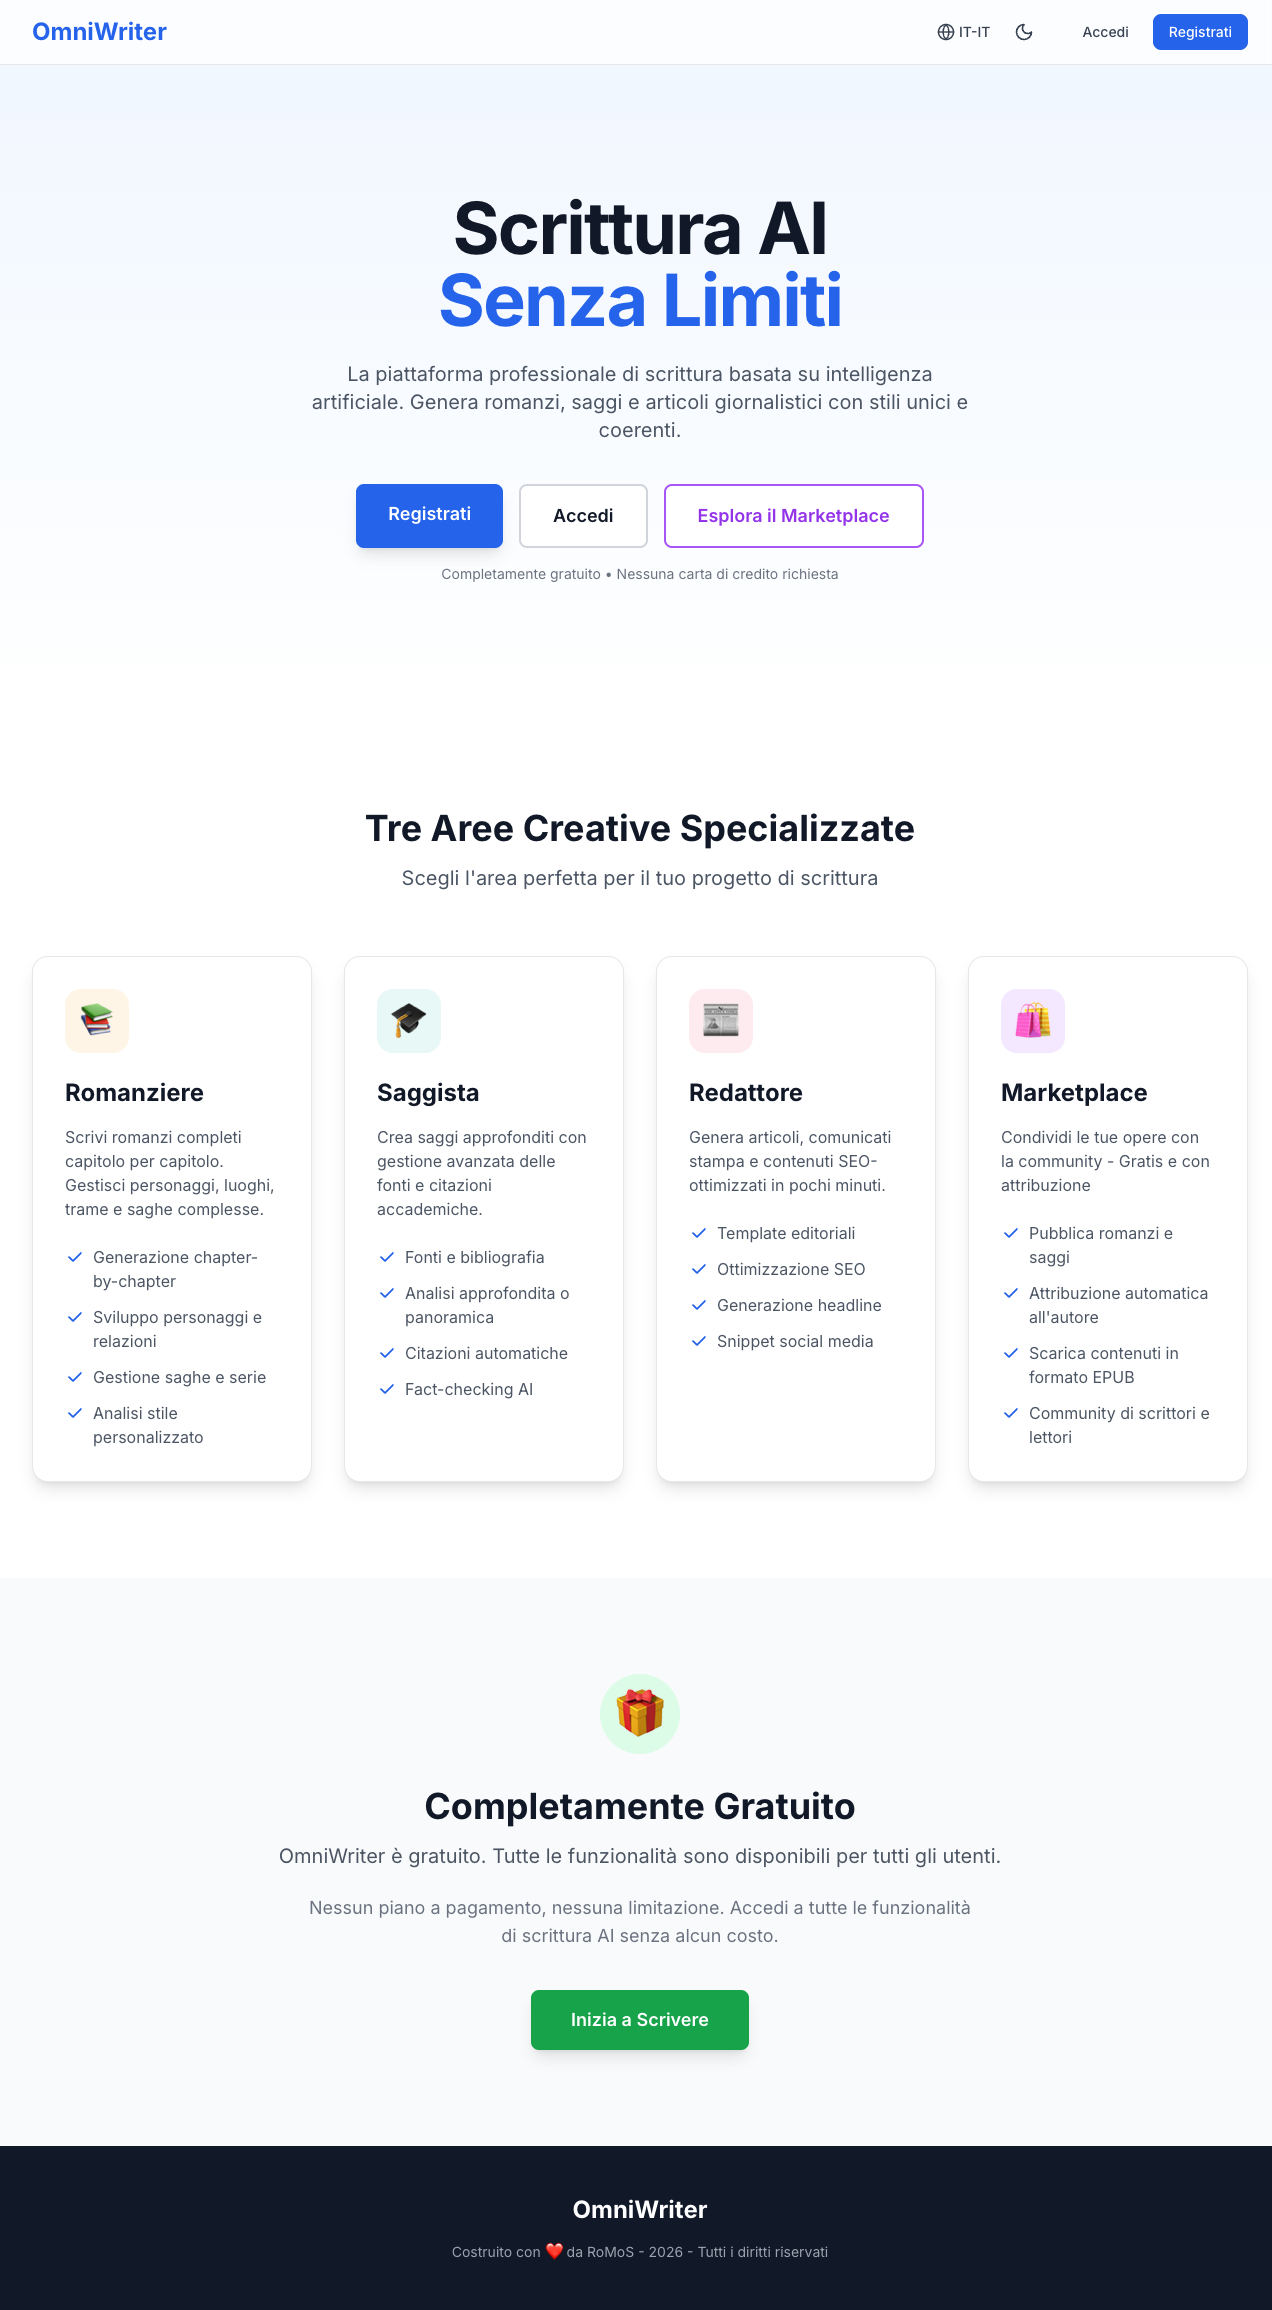
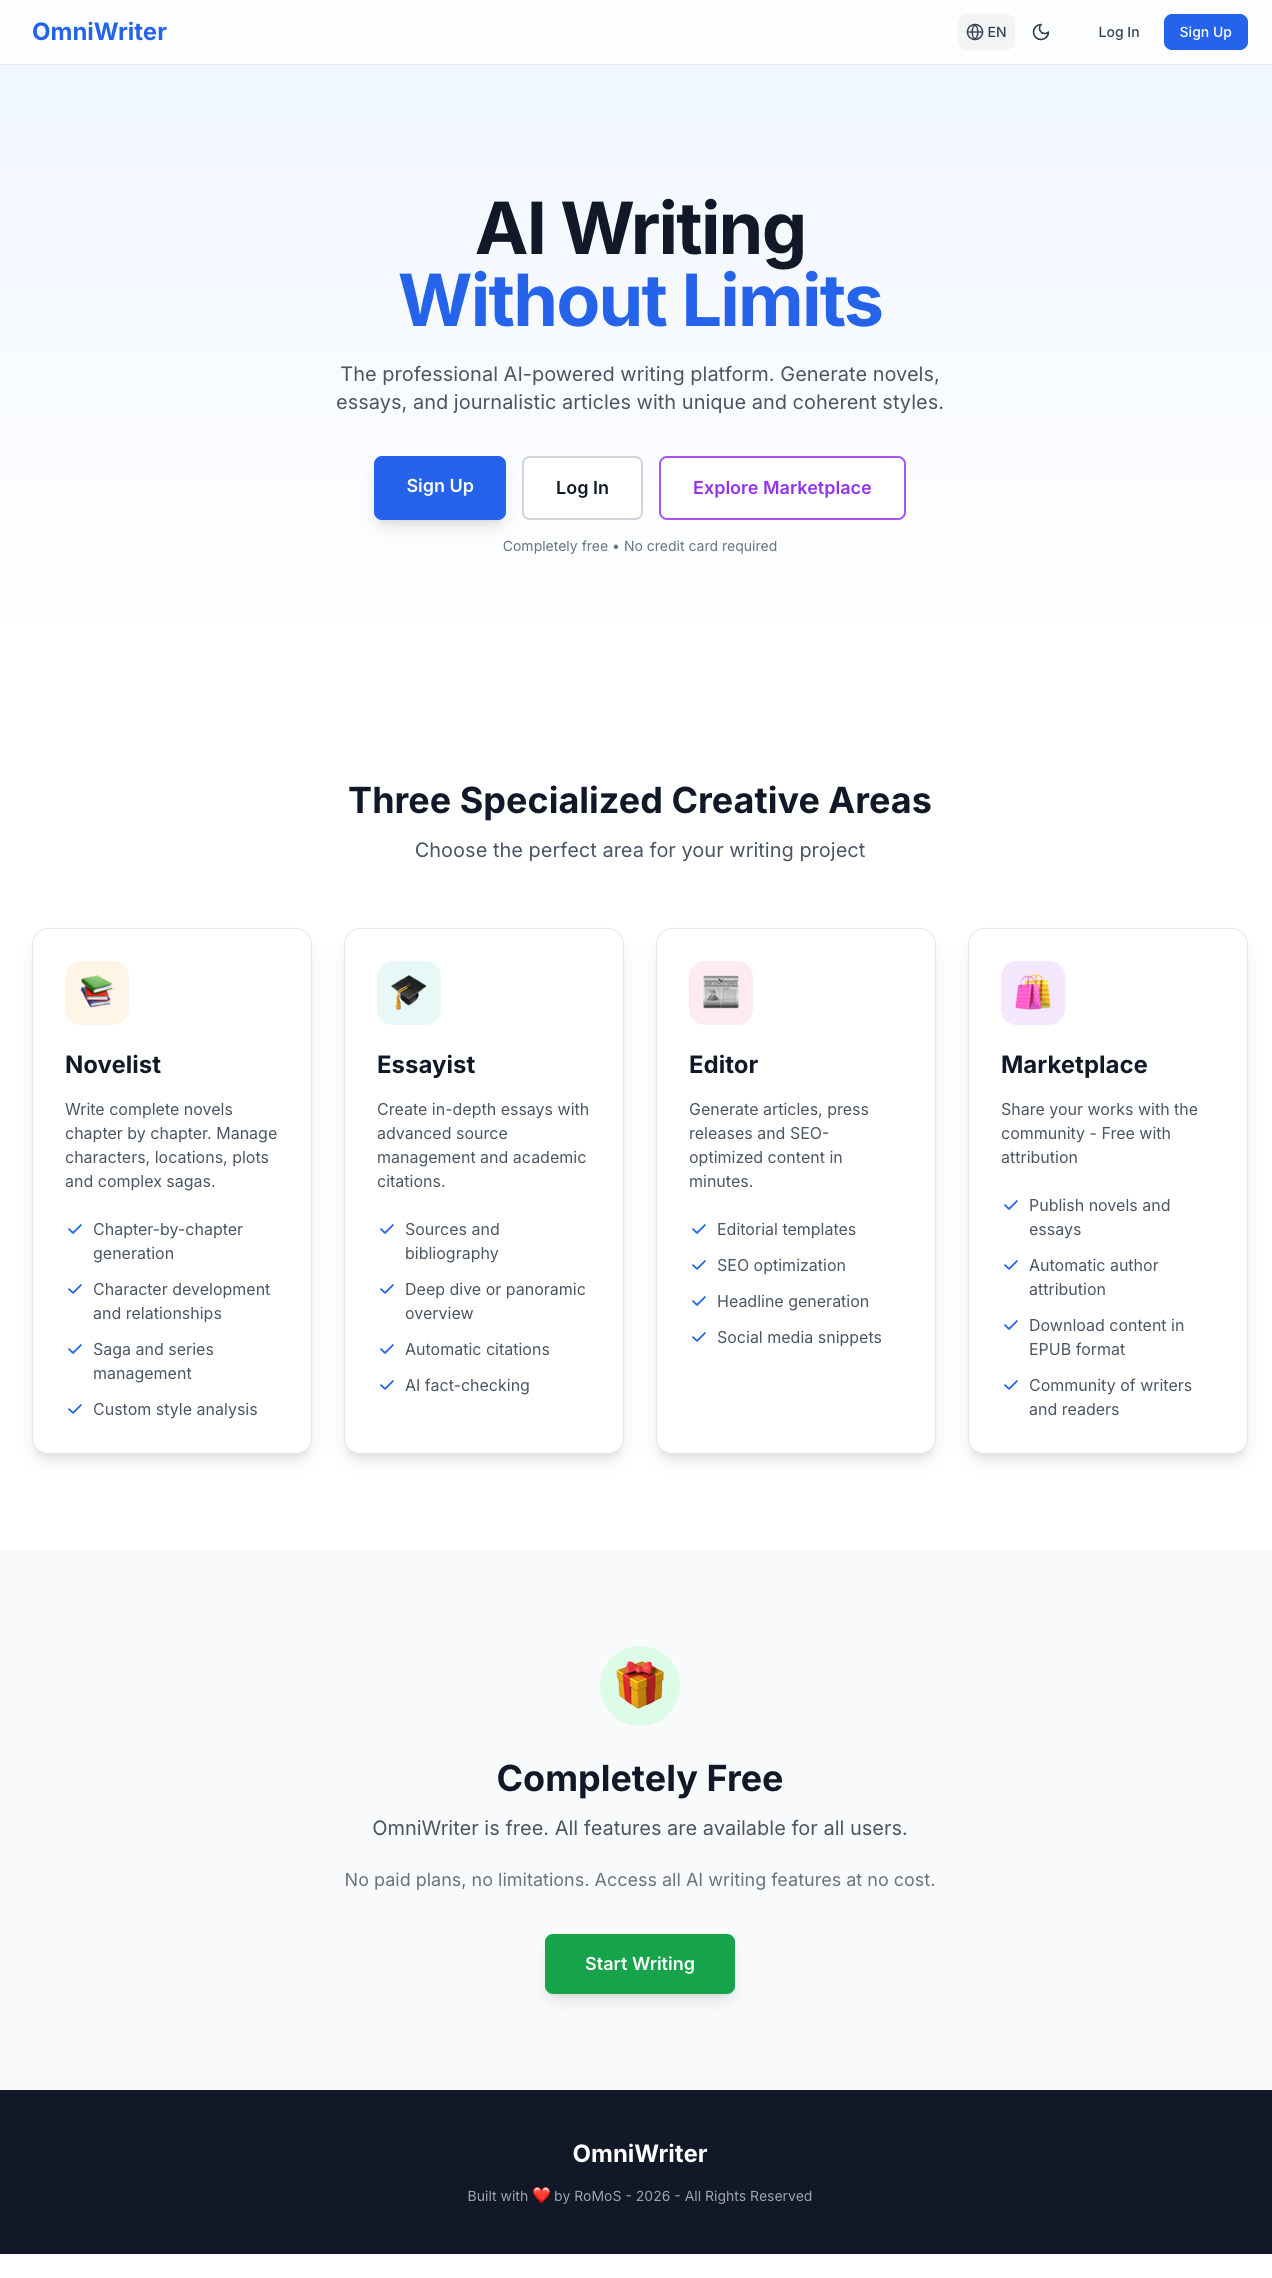
docs(#433): Fix README.md errors and update screenshot to English
- Replace landing page screenshot with English version

- Update Technology Stack: remove Vercel AI SDK and shadcn/ui

- Update AI Integration with actual providers: OpenAI, Anthropic, OpenRouter, Requesty, Gemini, Custom

- Add Drizzle ORM to Database layer

- Remove User Roles section (everything is now free)

- Marked feature #433 as passing

diff --git a/README.md b/README.md
@@ -69,10 +69,10 @@ OmniWriter is designed for:
 
 | Layer | Technologies |
 |-------|-------------|
-| **Frontend** | React 18, TypeScript, Tailwind CSS, shadcn/ui |
+| **Frontend** | React 18, TypeScript, Tailwind CSS |
 | **Backend** | Node.js, Express.js, TypeScript |
-| **Database** | SQLite (better-sqlite3) |
-| **AI Integration** | Vercel AI SDK, OpenAI, Anthropic |
+| **Database** | SQLite (better-sqlite3 + Drizzle ORM) |
+| **AI Integration** | OpenAI, Anthropic, OpenRouter, Requesty, Gemini, Custom |
 | **Authentication** | Passport.js (email/password + Google OAuth) |
 | **Internationalization** | i18next (Italian + English) |
 
@@ -234,15 +234,6 @@ omniwriter/
 ├── LICENSE.md              # AGPL v3 License
 └── README.md               # This file
 ```
-
-## User Roles
-
-| Role | Features |
-|------|----------|
-| **Free** | Basic access, limited generation length, TXT/DOCX export, basic Human Model |
-| **Premium** | Unlimited generation, all export formats (EPUB, PDF), full Human Model, Google Drive integration |
-| **Lifetime** | All premium features with permanent access |
-| **Admin** | Platform management, user administration, analytics dashboard |
 
 ## Contributing
 
